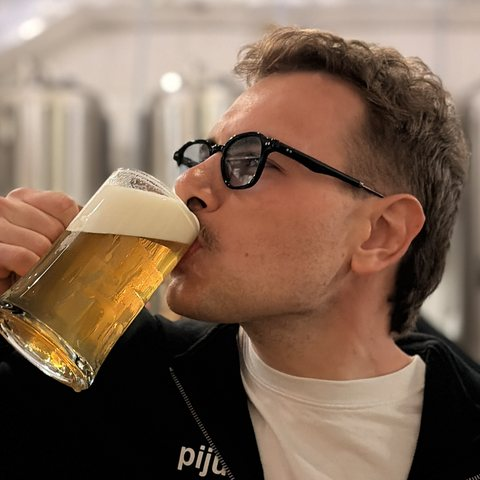
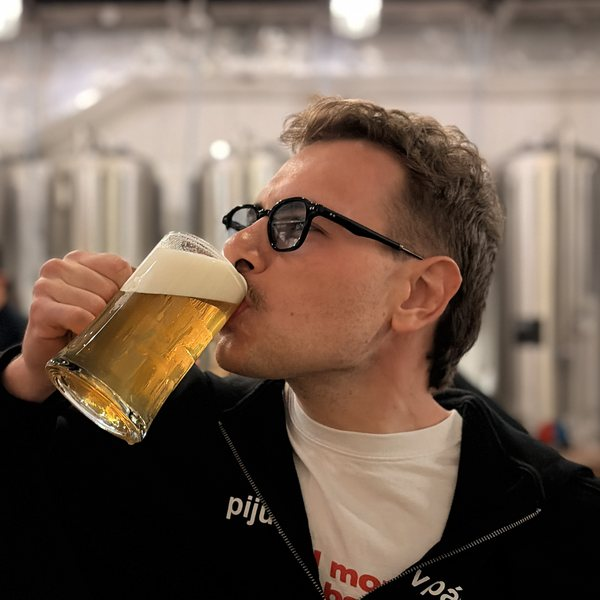
fix(site): show more of the maker photo and keep it large on phones

diff --git a/site/components/Maker.tsx b/site/components/Maker.tsx
@@ -6,14 +6,14 @@ export function Maker() {
   return (
     <section id="why" className="mx-auto w-full max-w-[1040px] scroll-mt-10 px-5 pt-32 sm:pt-[180px]">
       <div className="flex flex-col gap-10 md:flex-row md:items-start md:gap-16">
-        <figure className="flex shrink-0 items-center gap-4 md:sticky md:top-12 md:w-[300px] md:flex-col md:items-start md:gap-5">
+        <figure className="flex w-full max-w-[300px] shrink-0 flex-col items-start gap-4 md:sticky md:top-12 md:gap-5">
           <Image
             src={maker.photo}
             alt=""
             width={300}
             height={300}
-            sizes="(min-width: 768px) 300px, 72px"
-            className="size-[72px] rounded-full object-cover ring-1 ring-white/10 md:size-[300px] md:rounded-[28px]"
+            sizes="300px"
+            className="aspect-square w-full rounded-[24px] object-cover ring-1 ring-white/10 md:rounded-[28px]"
           />
           <figcaption className="flex flex-col gap-0.5">
             <span className="text-[16px] font-semibold">{maker.name}</span>
